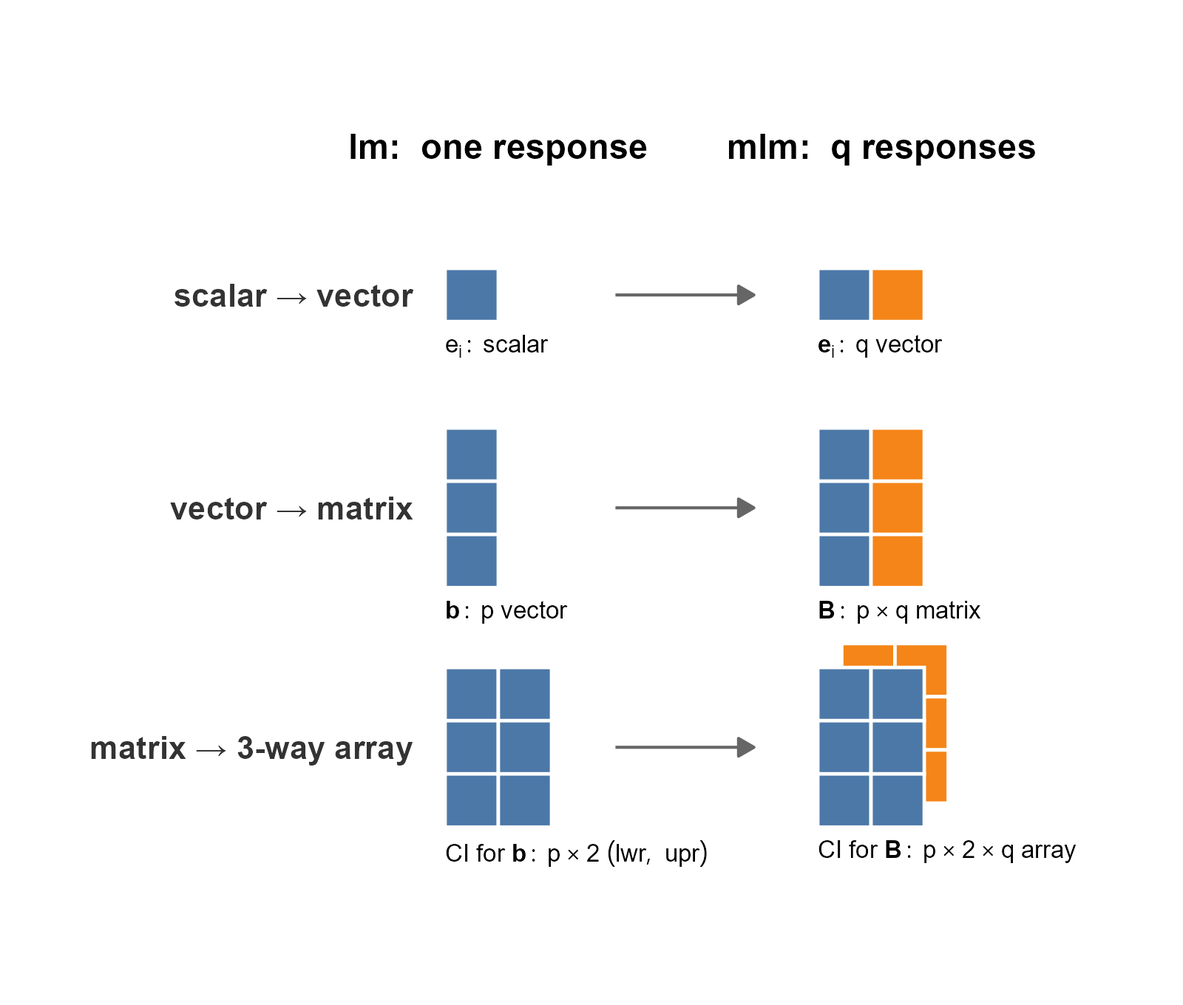
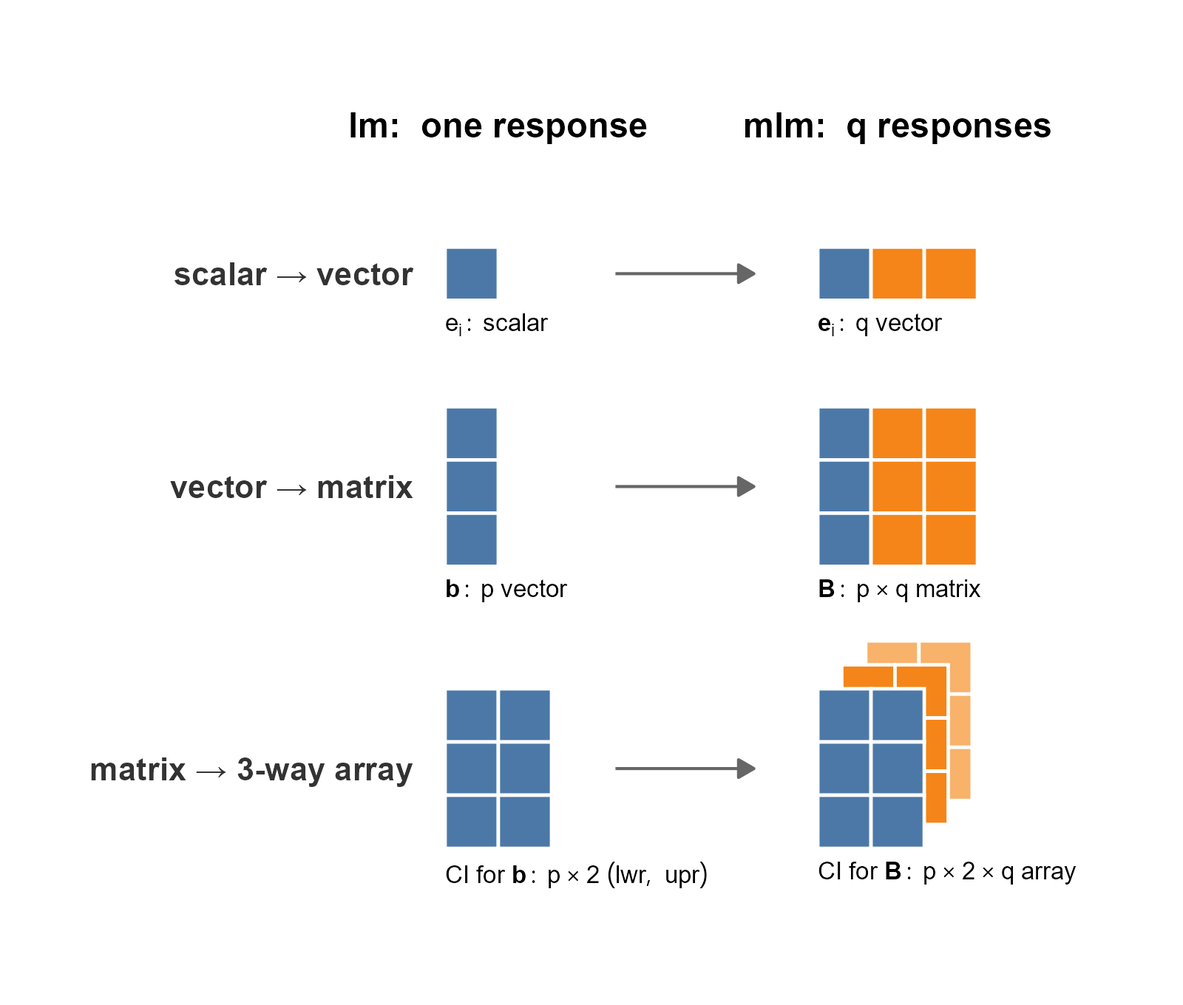
MLM-extensions draft: polishing items 1-5 and 16
- Notation: residual matrix U-hat; E = U'U is always the error SSP matrix
- Ladder bullets: residual e_i -> vector; sigma^2 -> Sigma and se.fit jump two rungs
- New 'Other gaps' subsection (plot.mlm, AV plots via pvPlot, vif, effects, shrinkage);
  cite Fox (2003) for effect displays
- Replace dim(X) + 1 phrasing; rewrite the genridge sentence
- Kronecker product named in the intro and as a Conclusion lesson, with a footnote on
  factorial model matrices
- Ladder figure redrawn with q = 3 responses
- notes.md: Additions section (MF), completed items ticked

diff --git a/blog/drafts/MLM-extensions/index.html b/blog/drafts/MLM-extensions/index.html
@@ -7,7 +7,7 @@
 <meta name="viewport" content="width=device-width, initial-scale=1.0, user-scalable=yes">
 
 <meta name="author" content="Michael Friendly">
-<meta name="dcterms.date" content="2026-11-20">
+<meta name="dcterms.date" content="2026-11-21">
 <meta name="description" content="R fits a multivariate linear model with the same lm() call as a univariate one, but many of the methods built around lm objects stop working, or quietly do something univariate. The underlying issue is that every object gains a dimension. This post describes what I’ve learned extending lm methods to mlm in the heplots, candisc, mvinfluence and genridge packages.">
 
 <title>On Extending lm() Methods to "mlm"</title>
@@ -162,6 +162,7 @@ window.Quarto = {
   <li><a href="#whats-still-missing" id="toc-whats-still-missing" class="nav-link" data-scroll-target="#whats-still-missing">What’s still missing</a>
   <ul class="collapse">
   <li><a href="#not-done-yet-predict.mlm-with-standard-errors" id="toc-not-done-yet-predict.mlm-with-standard-errors" class="nav-link" data-scroll-target="#not-done-yet-predict.mlm-with-standard-errors">Not done yet: <code>predict.mlm()</code> with standard errors</a></li>
+  <li><a href="#other-gaps" id="toc-other-gaps" class="nav-link" data-scroll-target="#other-gaps">Other gaps</a></li>
   </ul></li>
   <li><a href="#conclusion-what-i-learned" id="toc-conclusion-what-i-learned" class="nav-link" data-scroll-target="#conclusion-what-i-learned">Conclusion: what I learned</a></li>
   <li><a href="#references" id="toc-references" class="nav-link" data-scroll-target="#references">References</a></li>
@@ -201,7 +202,7 @@ window.Quarto = {
     <div>
     <div class="quarto-title-meta-heading">Published</div>
     <div class="quarto-title-meta-contents">
-      <p class="date">November 20, 2026</p>
+      <p class="date">November 21, 2026</p>
     </div>
   </div>
   
@@ -289,17 +290,10 @@ Hornet 4 Drive 4.724822e-05 0.0051368087</code></pre>
 <p>In short, the multivariate linear model is <strong>easy to fit</strong> and <strong>hard to see</strong>.</p>
 <ul>
 <li>The model syntax in <code>lm()</code> is trivial &amp; expressive: <code>y</code> becomes <code>cbind(y1, y2, ...)</code>. You only need to understand the idea of <strong>“binding”</strong> rows or columns into a matrix. But the <code>cbind</code> base family also works for a sequence of vectors, matrices and dataframes.</li>
-<li>The matrix algebra extension is elegant &amp; beautiful: <span class="math inline">\(\mathbf{y}_{n \times 1} \rightarrow \mathbf{Y}_{n \times q}\)</span> — it largely just works! The residual variance <span class="math inline">\(\sigma^2\)</span> becomes a covariance matrix <span class="math inline">\(\boldsymbol{\Sigma}\)</span>. The <span class="math inline">\(F\)</span> ratio of hypothesis to error sums of squares becomes the eigenvalues of <span class="math inline">\(\mathbf{H}\mathbf{E}^{-1}\)</span>, which give Wilks’ <span class="math inline">\(\Lambda\)</span>, the Pillai trace, Hotelling-Lawley and their friend Roy. And <span class="math inline">\(\textrm{Var}(\widehat{\mathbf{b}}) = \sigma^2 (\mathbf{X}^\top \mathbf{X})^{-1}\)</span> becomes <span class="math inline">\(\textrm{Var}(\textrm{vec}\, \widehat{\mathbf{B}}) = \boldsymbol{\Sigma} \otimes (\mathbf{X}^\top \mathbf{X})^{-1}\)</span>. Once there’s a covariance matrix, you can even ask whether it’s the same in every group: Box’s <span class="math inline">\(\mathcal{M}\)</span> test <span class="citation" data-cites="Box:1949">(<a href="#ref-Box:1949" role="doc-biblioref">Box 1949</a>)</span>.</li>
+<li>The matrix algebra extension is elegant &amp; beautiful: <span class="math inline">\(\mathbf{y}_{n \times 1} \rightarrow \mathbf{Y}_{n \times q}\)</span> — it largely just works! The residual variance <span class="math inline">\(\sigma^2\)</span> becomes a covariance matrix <span class="math inline">\(\boldsymbol{\Sigma}\)</span>. The <span class="math inline">\(F\)</span> ratio of hypothesis to error sums of squares becomes the eigenvalues of <span class="math inline">\(\mathbf{H}\mathbf{E}^{-1}\)</span>, which give Wilks’ <span class="math inline">\(\Lambda\)</span>, the Pillai trace, Hotelling-Lawley and their friend Roy. And <span class="math inline">\(\textrm{Var}(\widehat{\mathbf{b}}) = \sigma^2 (\mathbf{X}^\top \mathbf{X})^{-1}\)</span> becomes <span class="math inline">\(\textrm{Var}(\textrm{vec}\, \widehat{\mathbf{B}}) = \boldsymbol{\Sigma} \otimes (\mathbf{X}^\top \mathbf{X})^{-1}\)</span>, where <span class="math inline">\(\otimes\)</span> is the <a href="https://en.wikipedia.org/wiki/Kronecker_product">Kronecker product</a>. Once there’s a covariance matrix, you can even ask whether it’s the same in every group: Box’s <span class="math inline">\(\mathcal{M}\)</span> test <span class="citation" data-cites="Box:1949">(<a href="#ref-Box:1949" role="doc-biblioref">Box 1949</a>)</span>.</li>
 </ul>
-<!--
-LATER (MF, 2026-11-20): the Kronecker product's other role in lm(). For a crossed
-factorial design, the model matrix is built from per-factor pieces:
-(1, X_A) ⊗ (1, X_B) ⊗ (1, X_C) gives the columns of y ~ A*B*C (the main-effects model
-y ~ A + B + C is a subset of them). Strictly, that's one row per cell, in lexicographic
-order; replicates add ⊗ 1_n, and unbalanced data select rows. Where: possibly "One more
-dimension" (another way the algebra stays tidy) or a footnote near the genridge
-Σ ⊗ V_λ result.
--->
+<!-- MF's LATER note on Kronecker products in factorial model matrices is now a footnote
+in the Conclusion ("The Kronecker product keeps the two dimensions apart"). -->
 <p><a href="#fig-techniques" class="quarto-xref">Figure&nbsp;1</a> puts this in a wider frame. It classifies the familiar linear-model methods by the number and kind of predictors and responses. For one response (<span class="math inline">\(q = 1\)</span>), we have a rich toolkit of graphical methods: added-variable plots, influence plots, effect plots and the rest. For several quantitative responses (<span class="math inline">\(q &gt; 1\)</span>), the methods are just as well developed on the statistical side (multivariate regression, MANOVA, canonical correlation), but the graphics have been thin. Mostly, the results arrive as tables of multivariate test statistics.</p>
 <div id="fig-techniques" class="quarto-float quarto-figure quarto-figure-center anchored" alt="A table of linear-model techniques. Rows: predictors, quantitative or discrete, with p = 1 or p > 1. Columns: responses, quantitative or discrete, with q = 1 or q > 1. For quantitative responses, simple and multiple regression, t-test and ANOVA (q = 1) generalize to multivariate regression, canonical and partial correlation, Hotelling T-squared and MANOVA (q > 1). For discrete responses, logistic regression, chi-square, discriminant analysis, logit and loglinear models.">
 <figure class="quarto-float quarto-float-fig figure">
@@ -329,25 +323,25 @@ Could be generated live with tryCatch so it stays true as packages change.
 <p>It calls to mind the cognitive problems “A. Square” encountered in Edwin Abbott’s <em>Flatland</em> <span class="citation" data-cites="Abbott:1884">(<a href="#ref-Abbott:1884" role="doc-biblioref">Abbott 1884</a>)</span>, when a Sphere entered the story and taught him how to think in one more dimension. I’ve told that story in my <a href="https://friendly.github.io/Vis-MLM-book/"><em>Visualizing Multivariate Data and Models in R</em></a> book <span class="citation" data-cites="Friendly:2024:VisMLM">(<a href="#ref-Friendly:2024:VisMLM" role="doc-biblioref">Friendly 2024</a>)</span>.</p>
 <p>In R, when the response goes from a vector <strong>y</strong> to a matrix <strong>Y</strong>, every object the model produces <strong>gains a dimension</strong>:</p>
 <ul>
-<li>a <strong>scalar becomes a vector, or a matrix</strong>. The residual variance <span class="math inline">\(\sigma^2\)</span> becomes a <span class="math inline">\(q \times q\)</span> covariance matrix <span class="math inline">\(\boldsymbol{\Sigma}\)</span>.</li>
-<li>a <strong>vector becomes a matrix</strong>. The coefficients <span class="math inline">\(\mathbf{b}\)</span> become a <span class="math inline">\(p \times q\)</span> matrix <span class="math inline">\(\mathbf{B}\)</span>, and the residuals become an <span class="math inline">\(n \times q\)</span> matrix.</li>
-<li>a <strong>matrix becomes a 3-way array</strong>, or a list of matrices. A table of confidence intervals for the coefficients (<span class="math inline">\(p \times 2\)</span>) becomes <span class="math inline">\(p \times 2 \times q\)</span>. The standard error of each fitted value becomes a <span class="math inline">\(q \times q\)</span> matrix, one for every case.</li>
+<li>a <strong>scalar becomes a vector</strong>. The residual <span class="math inline">\(e_i\)</span> for case <span class="math inline">\(i\)</span> becomes a vector <span class="math inline">\(\mathbf{e}_i\)</span> of <span class="math inline">\(q\)</span> residuals, one for each response. Some scalars jump two rungs at once: the residual variance <span class="math inline">\(\sigma^2\)</span> becomes a <span class="math inline">\(q \times q\)</span> covariance matrix <span class="math inline">\(\boldsymbol{\Sigma}\)</span>, because along with <span class="math inline">\(q\)</span> variances it picks up the covariances between every pair of responses.</li>
+<li>a <strong>vector becomes a matrix</strong>. The coefficients <span class="math inline">\(\mathbf{b}\)</span> become a <span class="math inline">\(p \times q\)</span> matrix <span class="math inline">\(\mathbf{B}\)</span>, and the residuals become an <span class="math inline">\(n \times q\)</span> matrix <span class="math inline">\(\widehat{\mathbf{U}}\)</span>.</li>
+<li>a <strong>matrix becomes a 3-way array</strong>, or a list of matrices. A table of confidence intervals for the coefficients (<span class="math inline">\(p \times 2\)</span>) becomes <span class="math inline">\(p \times 2 \times q\)</span>. The standard errors of the fitted values also jump two rungs: a vector with one number per case becomes an <span class="math inline">\(n \times q \times q\)</span> array, a <span class="math inline">\(q \times q\)</span> matrix for every case.</li>
 </ul>
-<p><a href="#fig-dimension-ladder" class="quarto-xref">Figure&nbsp;2</a> shows this ladder for a model with <span class="math inline">\(p = 3\)</span> coefficients and <span class="math inline">\(q = 2\)</span> responses.</p>
-<div id="fig-dimension-ladder" class="quarto-float quarto-figure quarto-figure-center anchored" alt="A three-row diagram. Left column, lm with one response: a single cell for the residual e_i, a column of three cells for the coefficients b, and a 3 by 2 grid for their confidence intervals. Right column, mlm with q responses: each object gains orange cells along a new dimension, becoming a 1 by 2 vector, a 3 by 2 matrix B, and a 3 by 2 by 2 array drawn as two stacked layers.">
+<p><a href="#fig-dimension-ladder" class="quarto-xref">Figure&nbsp;2</a> shows this ladder for a model with <span class="math inline">\(p = 3\)</span> coefficients and <span class="math inline">\(q = 3\)</span> responses.</p>
+<div id="fig-dimension-ladder" class="quarto-float quarto-figure quarto-figure-center anchored" alt="A three-row diagram. Left column, lm with one response: a single cell for the residual e_i, a column of three cells for the coefficients b, and a 3 by 2 grid for their confidence intervals. Right column, mlm with q responses: each object gains orange cells along a new dimension, becoming a 1 by 3 vector, a 3 by 3 matrix B, and a 3 by 2 by 3 array drawn as three stacked layers, the two behind the blue one in orange.">
 <figure class="quarto-float quarto-float-fig figure">
 <div aria-describedby="fig-dimension-ladder-caption-0ceaefa1-69ba-4598-a22c-09a6ac19f8ca">
-<img src="figures/dimension-ladder.png" class="img-fluid figure-img" style="width:75.0%" alt="A three-row diagram. Left column, lm with one response: a single cell for the residual e_i, a column of three cells for the coefficients b, and a 3 by 2 grid for their confidence intervals. Right column, mlm with q responses: each object gains orange cells along a new dimension, becoming a 1 by 2 vector, a 3 by 2 matrix B, and a 3 by 2 by 2 array drawn as two stacked layers.">
+<img src="figures/dimension-ladder.png" class="img-fluid figure-img" style="width:75.0%" alt="A three-row diagram. Left column, lm with one response: a single cell for the residual e_i, a column of three cells for the coefficients b, and a 3 by 2 grid for their confidence intervals. Right column, mlm with q responses: each object gains orange cells along a new dimension, becoming a 1 by 3 vector, a 3 by 3 matrix B, and a 3 by 2 by 3 array drawn as three stacked layers, the two behind the blue one in orange.">
 </div>
 <figcaption class="quarto-float-caption-bottom quarto-float-caption quarto-float-fig" id="fig-dimension-ladder-caption-0ceaefa1-69ba-4598-a22c-09a6ac19f8ca">
-Figure&nbsp;2: Going from <code>lm</code> to <code>mlm</code>, every object gains a dimension. Blue cells are what a univariate model gives you; orange cells are added by the second response. The residual for a case becomes a vector, the coefficient vector becomes a matrix, and the table of confidence intervals becomes a 3-way array.
+Figure&nbsp;2: Going from <code>lm</code> to <code>mlm</code>, every object gains a dimension. Blue cells are what a univariate model gives you; orange cells are added by the other two responses. The residual for a case becomes a vector, the coefficient vector becomes a matrix, and the table of confidence intervals becomes a 3-way array.
 </figcaption>
 </figure>
 </div>
 <!-- Drawn by R/dimension-ladder.R (run from this folder). Possible additions: a fourth
 rung for sigma^2 -> Sigma (scalar -> matrix, skipping a rung), or se.fit. -->
 <p>That extra dimension shows up first in what a function <em>returns</em>, and then in every method that has to consume it: <code>print()</code>, <code>summary()</code>, <code>confint()</code>, <code>predict()</code>, and of course <code>plot()</code>.</p>
-<p>Code written for one shape is handed the next one up. But this has to do <em>something</em> with the new <code>dim(X) + 1</code> object. The challenge has always been: How to do something more <strong>useful</strong> in a multivariate context.</p>
+<p>Code written for one shape is handed the next one up, and it has to do <em>something</em> with it. The challenge has always been to make that something <strong>useful</strong> in a multivariate context.</p>
 <p>Base R takes several different approaches. Sometimes it simply returns the bigger object: <code>coef(fit)</code> is the <span class="math inline">\(3 \times 2\)</span> matrix you’d expect. Sometimes it <strong>flattens</strong> the extra dimension away. <code>confint()</code> strings the responses and coefficients together into one long list of intervals:</p>
 <div class="cell">
 <div class="code-copy-outer-scaffold"><div class="sourceCode cell-code" id="cb11"><pre class="sourceCode r code-with-copy"><code class="sourceCode r"><span id="cb11-1"><a href="#cb11-1" aria-hidden="true" tabindex="-1"></a><span class="fu">confint</span>(fit)</span></code></pre></div><button title="Copy to Clipboard" class="code-copy-button"><i class="bi"></i></button></div>
@@ -420,7 +414,7 @@ Questions for MF are marked Q:.
 </section>
 <section id="seeing-the-tests-he-plots" class="level2">
 <h2 class="anchored" data-anchor-id="seeing-the-tests-he-plots">Seeing the tests: HE plots</h2>
-<p>In a univariate linear model, every <span class="math inline">\(F\)</span> test compares two sums of squares: <span class="math inline">\(SS_H\)</span> for the hypothesis and <span class="math inline">\(SS_E\)</span> for error. In the multivariate model, each of these becomes a <span class="math inline">\(q \times q\)</span> matrix of sums of squares and products: <span class="math inline">\(\mathbf{H}\)</span> for each term in the model, and one <span class="math inline">\(\mathbf{E}\)</span> for the residuals. All four multivariate test statistics are functions of the eigenvalues of <span class="math inline">\(\mathbf{H}\mathbf{E}^{-1}\)</span>, the matrix analog of <span class="math inline">\(SS_H / SS_E\)</span>.</p>
+<p>In a univariate linear model, every <span class="math inline">\(F\)</span> test compares two sums of squares: <span class="math inline">\(SS_H\)</span> for the hypothesis and <span class="math inline">\(SS_E\)</span> for error. In the multivariate model, each of these becomes a <span class="math inline">\(q \times q\)</span> matrix of sums of squares and products: <span class="math inline">\(\mathbf{H}\)</span> for each term in the model, and one <span class="math inline">\(\mathbf{E}\)</span> for error. <span class="math inline">\(\mathbf{E} = \widehat{\mathbf{U}}^\top \widehat{\mathbf{U}}\)</span> is the sums of squares and products of the residuals, <span class="math inline">\(\widehat{\mathbf{U}} = \mathbf{Y} - \mathbf{X}\widehat{\mathbf{B}}\)</span>. All four multivariate test statistics are functions of the eigenvalues of <span class="math inline">\(\mathbf{H}\mathbf{E}^{-1}\)</span>, the matrix analog of <span class="math inline">\(SS_H / SS_E\)</span>.</p>
 <p>That’s the matrix that plays the role of the scalar. The way to see it is the <strong>HE plot</strong> <span class="citation" data-cites="Friendly:07:manova FoxFriendlyMonette:09:compstat">(<a href="#ref-Friendly:07:manova" role="doc-biblioref">Friendly 2007</a>; <a href="#ref-FoxFriendlyMonette:09:compstat" role="doc-biblioref">Fox et al. 2009</a>)</span>: draw <span class="math inline">\(\mathbf{H}\)</span> and <span class="math inline">\(\mathbf{E}\)</span> as ellipses in the space of two responses. The <span class="math inline">\(\mathbf{E}\)</span> ellipse shows the size and shape of the residual variation. The <span class="math inline">\(\mathbf{H}\)</span> ellipse for a term shows the variation of the fitted values due to that term. With the default “evidence” scaling, <span class="math inline">\(\mathbf{H}\)</span> protrudes outside <span class="math inline">\(\mathbf{E}\)</span> somewhere in the full response space if and only if the term is significant by Roy’s test. (In a two-dimensional view, the rule works only one way: outside means significant, but inside doesn’t mean “not significant”.)</p>
 <p>Here’s an example, from Rohwer’s study of how well paired-associate (PA) learning tasks predict three aptitude and achievement tests in kindergarten children of high and low socioeconomic status (SES). The model is a multivariate analysis of covariance: SES is a factor, and the five PA tasks are covariates.</p>
 <div class="cell">
@@ -563,7 +557,7 @@ Figure&nbsp;4: HE plot of the Pottery data in canonical space. In this view, the
 0.052235697 0.029590855 0.023351805 0.005212763 </code></pre>
 </div>
 </div>
-<p>The math came from <span class="citation" data-cites="BarrettLing:92">Barrett and Ling (<a href="#ref-BarrettLing:92" role="doc-biblioref">1992</a>)</span>. Their generalized Cook’s distance strings the coefficient matrix out into one long vector, <span class="math inline">\(\textrm{vec}(\mathbf{B})\)</span>, and measures how far it moves when a case is deleted, in the metric of its covariance matrix. That metric is <span class="math inline">\(\mathbf{S}^{-1} \otimes \mathbf{X}^\top \mathbf{X}\)</span>: the Kronecker product again. As in the univariate case, <span class="math inline">\(D_i\)</span> is proportional to the product of a leverage component and a residual component. Leverage depends only on <span class="math inline">\(\mathbf{X}\)</span>, so it doesn’t change. The residual is now a vector, so its size becomes <span class="math inline">\(q_{ii} = \mathbf{e}_i^\top (\mathbf{E}^\top \mathbf{E})^{-1} \mathbf{e}_i\)</span>, a hat value for the residuals: one more scalar that has become a quadratic form.</p>
+<p>The math came from <span class="citation" data-cites="BarrettLing:92">Barrett and Ling (<a href="#ref-BarrettLing:92" role="doc-biblioref">1992</a>)</span>. Their generalized Cook’s distance strings the coefficient matrix out into one long vector, <span class="math inline">\(\textrm{vec}(\mathbf{B})\)</span>, and measures how far it moves when a case is deleted, in the metric of its covariance matrix. That metric is <span class="math inline">\(\widehat{\boldsymbol{\Sigma}}^{-1} \otimes \mathbf{X}^\top \mathbf{X}\)</span>: the Kronecker product again. As in the univariate case, <span class="math inline">\(D_i\)</span> is proportional to the product of a leverage component and a residual component. Leverage depends only on <span class="math inline">\(\mathbf{X}\)</span>, so it doesn’t change. The residual is now a vector, <span class="math inline">\(\mathbf{e}_i^\top\)</span>, the <span class="math inline">\(i\)</span>th row of <span class="math inline">\(\widehat{\mathbf{U}}\)</span>, so its size becomes <span class="math inline">\(q_{ii} = \mathbf{e}_i^\top \mathbf{E}^{-1} \mathbf{e}_i\)</span>, a hat value for the residuals: one more scalar that has become a quadratic form, and in the same <span class="math inline">\(\mathbf{E}\)</span> as the HE plot.</p>
 <p>Is the multivariate version worth the trouble? <span class="citation" data-cites="Barrett:2003">Barrett (<a href="#ref-Barrett:2003" role="doc-biblioref">2003</a>)</span> gave a toy example, with one predictor and two nearly identical responses, that makes the case:</p>
 <div class="cell">
 <details open="" class="code-fold">
@@ -709,7 +703,7 @@ Figure&nbsp;6: Robust MANOVA for the Pottery data. Left: final case weights from
 <h2 class="anchored" data-anchor-id="now-multivariate-ridge-regression-in-genridge">Now: multivariate ridge regression in genridge</h2>
 <!-- MF: genridge 0.8.1 was submitted to CRAN 2026-11-20. Update the wording once it's accepted. -->
 <p>The newest member of the family is in genridge, my package for visualizing ridge regression <span class="citation" data-cites="Friendly:genridge:2013">(<a href="#ref-Friendly:genridge:2013" role="doc-biblioref">Friendly 2013</a>)</span>. In version 0.8.1, <code>ridge()</code> accepts a matrix response, either in a formula or as an existing <code>mlm</code> fit, and returns an object of class <code>"mlmridge"</code>. The implementation was adapted from <code>lm_multiv_ridge()</code> in the <strong>VARshrink</strong> package. It’s marked experimental, and I’d welcome comments.</p>
-<p>The essential idea was how to adapt the graphical methods I had developed for a single <span class="math inline">\(\mathbf{y}\)</span>, when there are possibly many predictors in <span class="math inline">\(\mathbf{X}\)</span>, whose effects on shrinkage are to be considered jointly, to the <code>dim() + 1</code> case of <span class="math inline">\(\mathbf{y} \rightarrow \mathbf{Y}\)</span> case with <code>q &gt; 1</code> responses.</p>
+<p>The question was how to carry the graphical methods I had developed for a single <span class="math inline">\(\mathbf{y}\)</span>, where the effects of many predictors on shrinkage are seen jointly, one dimension up, to <span class="math inline">\(\mathbf{Y}\)</span> with <span class="math inline">\(q &gt; 1\)</span> responses.</p>
 <p>The <code>schooldata</code> data in heplots make a good test case. For 70 schools, three measures of student achievement (<code>reading</code>, <code>mathematics</code> and <code>selfesteem</code>) are predicted from five measures of the schools’ resources, three of which are nearly the same variable. The collinearity is severe enough that <code>visit</code>, strongly and positively correlated with reading and mathematics, gets negative OLS coefficients for both.</p>
 <div class="cell">
 <details open="" class="code-fold">
@@ -883,14 +877,20 @@ Figure&nbsp;9: 95% confidence ellipses (blue) and prediction ellipses (red, dash
 <li><strong>Printing.</strong> Nobody wants to read <span class="math inline">\(n\)</span> covariance matrices.</li>
 <li><strong>Plotting.</strong> Probably as above, which puts it back in heplots territory.</li>
 </ul>
+</section>
+<section id="other-gaps" class="level3">
+<h3 class="anchored" data-anchor-id="other-gaps">Other gaps</h3>
+<p><code>predict()</code> isn’t the only one. A few others, each a case of the same problem:</p>
+<ul>
+<li><strong>An actual <code>plot.mlm()</code>.</strong> R’s error message from the introduction still stands. What should the default diagnostic plots for an <code>mlm</code> be? A <span class="math inline">\(\chi^2\)</span> QQ plot of the residual Mahalanobis distances (<code>cqplot()</code>), an influence plot and an HE plot would be a start.</li>
+<li><strong>Added-variable plots.</strong> <code>car::avPlots()</code> fails on an <code>mlm</code>. For a predictor <span class="math inline">\(x_k\)</span>, the multivariate version would plot the residuals of <em>all</em> the responses, adjusted for the other predictors, against the residual of <span class="math inline">\(x_k\)</span>: <span class="math inline">\(q\)</span> panels, or one panel with a data ellipse for each pair of responses. <code>heplots::pvPlot()</code> is one step in that direction. It works on a data frame, not a model, and shows the conditional relation of <em>any</em> two variables, <span class="math inline">\(x\)</span>’s or <span class="math inline">\(y\)</span>’s, given all the others, as a scatterplot of their partial residuals with a data ellipse. Plotting <span class="math inline">\(y_j\)</span> against <span class="math inline">\(x_k\)</span>, with the other predictors partialled out, gives the added-variable plot for one response. Plotting two responses against each other, with all the predictors partialled out, shows their residual correlation, the shape of <span class="math inline">\(\mathbf{E}\)</span>.</li>
+<li><strong><code>car::vif()</code>.</strong> This one should be easy. VIFs depend only on <span class="math inline">\(\mathbf{X}\)</span>, so they’re the same for every response; <code>vif()</code> stops only because it looks for coefficient names in a vector, not a matrix.</li>
+<li><strong>Effect displays.</strong> The <a href="https://CRAN.R-project.org/package=effects">effects</a> package plots fitted values for each term, with confidence bands <span class="citation" data-cites="Fox:03:effects">(<a href="#ref-Fox:03:effects" role="doc-biblioref">Fox 2003</a>)</span>. For an <code>mlm</code>, each fitted value is a <span class="math inline">\(q\)</span>-vector and each band becomes a set of confidence ellipses: the <code>predict()</code> problem again, one term at a time.</li>
+<li><strong>Shrinkage that borrows strength across responses.</strong> genridge uses one ridge constant for all responses, which leaves each column of <span class="math inline">\(\widehat{\mathbf{B}}\)</span> a univariate ridge. Genuinely multivariate shrinkage, as in <span class="citation" data-cites="Brown-Zidek-1980">Brown and Zidek (<a href="#ref-Brown-Zidek-1980" role="doc-biblioref">1980</a>)</span> or the “curds and whey” method of <span class="citation" data-cites="BreimanFriedman:1997">Breiman and Friedman (<a href="#ref-BreimanFriedman:1997" role="doc-biblioref">1997</a>)</span>, uses the correlations among the responses, and would need new displays of its own.</li>
+</ul>
 <!--
-- plot.mlm(): should someone write one? What would it show?
-- predict.mlm(): draft in heplots dev/pred.mlm.R (pred.mlm0, from Helwig's notes).
-- car::avPlots(), car::vif() for mlm.
-- Real multivariate shrinkage (Brown & Zidek 1980; curds and whey, Breiman & Friedman 1997).
-- effects for mlm.
-- Possibly a short "lessons for package developers" list here (see notes.md, Design lessons),
-  or as a callout box.
+Possibly a short "lessons for package developers" list here (see notes.md, Design lessons),
+or as a callout box.
 -->
 </section>
 </section>
@@ -903,6 +903,7 @@ Figure&nbsp;9: 95% confidence ellipses (blue) and prediction ellipses (red, dash
 <li><p><strong>The statistics were mostly the easy part.</strong> The theory of the multivariate linear model was settled long ago, and much of the computation I needed was already there: <code>car::Anova()</code> for the <span class="math inline">\(\mathbf{H}\)</span> and <span class="math inline">\(\mathbf{E}\)</span> matrices, Barrett &amp; Ling’s influence measures, the Kronecker form of <span class="math inline">\(\textrm{Var}(\textrm{vec}\,\widehat{\mathbf{B}})\)</span>. The real work was in the software: what a function returns when every object gains a dimension, how it prints, and how the methods downstream should consume it.</p></li>
 <li><p><strong>Find the matrix that plays the role of the scalar, then find a way to see it.</strong> A variance becomes a covariance matrix, a squared residual a Mahalanobis distance, an <span class="math inline">\(F\)</span> ratio the eigenvalues of <span class="math inline">\(\mathbf{H}\mathbf{E}^{-1}\)</span>, a confidence interval an ellipse. Once you’ve named the matrix, the picture is very often an ellipse. That’s what makes these methods <em>visual</em>, and not just multivariate.</p></li>
 <li><p><strong>Not everything needs a new display.</strong> Leverage depends only on <span class="math inline">\(\mathbf{X}\)</span>, and so do the ridge shrinkage factors and VIFs. Knowing what <em>doesn’t</em> change is as useful as knowing what does, and it keeps the extension honest.</p></li>
+<li><p><strong>The Kronecker product keeps the two dimensions apart.</strong> It turned up again and again: <span class="math inline">\(\boldsymbol{\Sigma} \otimes (\mathbf{X}^\top \mathbf{X})^{-1}\)</span> for the coefficients in the introduction, the metric <span class="math inline">\(\widehat{\boldsymbol{\Sigma}}^{-1} \otimes \mathbf{X}^\top \mathbf{X}\)</span> for Cook’s distance, <span class="math inline">\(\boldsymbol{\Sigma} \otimes \mathbf{V}_\lambda\)</span> for ridge, and <span class="math inline">\(h_0 \widehat{\boldsymbol{\Sigma}}\)</span>, one slice of it, for a predicted value. Each time, one factor belongs to the responses and the other to the predictors. That’s why leverage and VIFs don’t change when <span class="math inline">\(\mathbf{y}\)</span> becomes <span class="math inline">\(\mathbf{Y}\)</span>, and why the ridge and prediction ellipses all have the shape of <span class="math inline">\(\boldsymbol{\Sigma}\)</span>: the extra dimension enters through one factor and leaves the other alone.<a href="#fn4" class="footnote-ref" id="fnref4" role="doc-noteref"><sup>4</sup></a></p></li>
 <li><p><strong>Inheritance is a promise.</strong> S3 dispatch makes it cheap to add an <code>mlm</code> method, and an <code>"mlm"</code> class that inherits from <code>"lm"</code> invites every <code>lm</code> method to try. Some refuse, which is fine. The ones to worry about are those that run and quietly give you <span class="math inline">\(q\)</span> univariate answers to a multivariate question.</p></li>
 </ul>
 <p>For statisticians, my hope is that this makes the multivariate linear model a little easier to <em>see</em>, not just to fit. For R developers, it’s an invitation. The gaps in the last section, <code>predict.mlm()</code> with standard errors, an actual <code>plot.mlm()</code>, added-variable plots and effect displays for multivariate models, are all Un-Vized Problems, with the statistics in hand and the software still to be written. I’d be glad to hear from anyone who wants to take one on.</p>
@@ -923,8 +924,17 @@ Barrett, Bruce E., and Robert F. Ling. 1992. <span>“General Classes of Influen
 <div id="ref-Box:1949" class="csl-entry" role="listitem">
 Box, G. E. P. 1949. <span>“A General Distribution Theory for a Class of Likelihood Criteria.”</span> <em>Biometrika</em> 36 (3-4): 317–46. <a href="https://doi.org/10.1093/biomet/36.3-4.317">https://doi.org/10.1093/biomet/36.3-4.317</a>.
 </div>
+<div id="ref-BreimanFriedman:1997" class="csl-entry" role="listitem">
+Breiman, Leo, and Jerome H. Friedman. 1997. <span>“Predicting Multivariate Responses in Multiple Linear Regression.”</span> <em>Journal of the Royal Statistical Society, Series B: Statistical Methodology</em> 59 (1): 3–54. <a href="https://doi.org/10.1111/1467-9868.00054">https://doi.org/10.1111/1467-9868.00054</a>.
+</div>
+<div id="ref-Brown-Zidek-1980" class="csl-entry" role="listitem">
+Brown, P. J., and J. V. Zidek. 1980. <span>“Adaptive Multivariate Ridge Regression.”</span> <em>The Annals of Statistics</em> 8 (1): 64–74. <a href="http://www.jstor.org/stable/2240743">http://www.jstor.org/stable/2240743</a>.
+</div>
 <div id="ref-FoxFriendlyMonette:09:compstat" class="csl-entry" role="listitem">
 Fox, J., M. Friendly, and G. Monette. 2009. <span>“Visualizing Hypothesis Tests in Multivariate Linear Models: The <em>Heplots</em> Package for <span>R</span>.”</span> <em>Computational Statistics</em> 24: 233–46. <a href="https://doi.org/10.1007/s00180-008-0120-1">https://doi.org/10.1007/s00180-008-0120-1</a>.
+</div>
+<div id="ref-Fox:03:effects" class="csl-entry" role="listitem">
+Fox, John. 2003. <span>“Effect Displays in <span>R</span> for Generalized Linear Models.”</span> <em>Journal of Statistical Software</em> 8 (15): 1–27. <a href="https://doi.org/10.18637/jss.v008.i15">https://doi.org/10.18637/jss.v008.i15</a>.
 </div>
 <div id="ref-FoxFriendlyWeisberg:13:rjournal" class="csl-entry" role="listitem">
 Fox, John, Michael Friendly, and Sanford Weisberg. 2013. <span>“Hypothesis Tests for Multivariate Linear Models Using the <em>Car</em> Package.”</span> <em>The R Journal</em> 5 (1): 39–52.
@@ -963,6 +973,7 @@ Tukey, John W. 1959. <span>“A Quick, Compact, Two Sample Test to <span class="
 <li id="fn1"><p>To paraphrase <span class="citation" data-cites="Tukey:59">Tukey (<a href="#ref-Tukey:59" role="doc-biblioref">1959</a>)</span>, the “practical power” of any statistical method is the product of its statistical power, times the probability that anyone can or will actually use it.<a href="#fnref1" class="footnote-back" role="doc-backlink">↩</a></p></li>
 <li id="fn2"><p>Of course, there are other, more modern views of the idea of a “scatterplot matrix” <span class="citation" data-cites="Hartigan:75b">(<a href="#ref-Hartigan:75b" role="doc-biblioref">Hartigan 1975</a>)</span> in Trellis graphics, … now <code>ggplot2</code> via <code>GGally</code> and other extensions ,,,<a href="#fnref2" class="footnote-back" role="doc-backlink">↩</a></p></li>
 <li id="fn3"><p>This leaves open the question of how this should be done: <code>for()</code> loops, <code>apply()</code> or <code>map()</code> functions, faceted displays, etc.<a href="#fnref3" class="footnote-back" role="doc-backlink">↩</a></p></li>
+<li id="fn4"><p>The Kronecker product does the same tidy bookkeeping on the predictor side. For a full factorial design with one observation per cell, in lexicographic order, the model matrix for <code>y ~ A * B * C</code> is <span class="math inline">\((\mathbf{1}, \mathbf{X}_A) \otimes (\mathbf{1}, \mathbf{X}_B) \otimes (\mathbf{1}, \mathbf{X}_C)\)</span>, up to the order of the columns, where each <span class="math inline">\(\mathbf{X}\)</span> holds the contrasts for one factor. Replicates add a factor <span class="math inline">\(\otimes \mathbf{1}_n\)</span>.<a href="#fnref4" class="footnote-back" role="doc-backlink">↩</a></p></li>
 </ol>
 </section></div></main>
 <!-- /main column -->

diff --git a/blog/drafts/MLM-extensions/notes.md b/blog/drafts/MLM-extensions/notes.md
@@ -311,29 +311,57 @@ citation keys resolve.
 
 **Notation (MF to decide)**
 
-1. **E for two things.** In mvinfluence, `qᵢᵢ = eᵢ′(E′E)⁻¹eᵢ` uses **E** for the residual matrix,
-   but everywhere else **E** is the error SSP matrix. Vis-MLM-book uses
-   `\providecommand{\Epsilon}{\boldsymbol{\Large\varepsilon}}` for the residual matrix. Options:
-   adopt `\Epsilon` (define it in a hidden `$$ $$` macro block at the top), or write
-   `eᵢ′ E⁻¹ eᵢ` with **E** = the SSP matrix, which avoids the residual matrix altogether.
-   Check other places a residual matrix appears (robmlm: "residual covariance matrix S").
+1. ✔ ~~**E for two things.**~~ *Done 2026-11-21.* Follows Friendly, Monette & Fox (2013,
+   eq. 14): residual matrix $\widehat{\mathbf{U}} = \mathbf{Y} - \mathbf{X}\widehat{\mathbf{B}}$,
+   and **E** = $\widehat{\mathbf{U}}^\top\widehat{\mathbf{U}}$ always means the error SSP matrix.
+   - Changes: "One more dimension" names the residual matrix $\widehat{\mathbf{U}}$; the HE
+     section defines **E** from it; mvinfluence now has $q_{ii} = \mathbf{e}_i^\top
+     \mathbf{E}^{-1} \mathbf{e}_i$, with $\mathbf{e}_i^\top$ the $i$th row of
+     $\widehat{\mathbf{U}}$; Cook's metric uses $\widehat{\boldsymbol{\Sigma}}^{-1}$ instead
+     of **S**, matching the introduction. robmlm keeps **S**, since it's a different (robust)
+     estimate.
+   - The Vis-MLM book uses `\Epsilon` for the residual matrix instead; the post follows the
+     STS paper it cites.
+   - **mvinfluence discrepancy found while checking (2026-11-21).** `mlm.influence()` computes
+     `Q` from *deleted* residuals, `EI <- (Y - X %*% BI)[I, ]` (line 139), so its `Q` equals
+     $q_{ii}/(1-h_{ii})^2$ (verified to 1e-14 on the mtcars fit), not Barrett & Ling's
+     $q_{ii}$ with ordinary residuals. `CookD` is unaffected: it is computed directly from
+     B − B₍ᵢ₎, and equals $(n-p)/p \cdot h/(1-h)^2 \cdot q_{ii}$ exactly. But `R = Q/(1-H)`
+     then equals $q_{ii}/(1-h)^3$, so the LR influence plot's residual axis, and the claim
+     that D ∝ L × R (the diagonal Cook's D contours), are off. Written up as
+     `mvinfluence/issues/Q-deleted-residuals.md`. **MF: not addressed in this post for now.**
 
 **Consistency**
 
-2. Conclusion says the "gaps in the last section" include `plot.mlm()`, AV plots and effect
+2. ✔ ~~Conclusion says the "gaps in the last section" include `plot.mlm()`, AV plots and effect
    displays, but "What's still missing" only has `predict.mlm()`; the others are in an HTML
    comment. Add a short "Other gaps" list (plot.mlm, `car::avPlots()`/`vif()`, effects,
-   multivariate shrinkage: Brown & Zidek 1980, Breiman & Friedman 1997, both in references.bib).
+   multivariate shrinkage: Brown & Zidek 1980, Breiman & Friedman 1997, both in references.bib).~~
+   *Done 2026-11-21:* "### Other gaps" added after the `predict.mlm()` subsection:
+   - `plot.mlm()`;
+   - AV plots, with `heplots::pvPlot()` as a step towards them;
+   - `car::vif()`;
+   - effect displays, citing `Fox:03:effects` (added to references.bib from graphics.bib; the
+     earlier `FriendlyKwan:02:effect` is "Effect Ordering for Data Displays", the wrong paper);
+   - multivariate shrinkage.
    
-3. Ladder bullets in "One more dimension": the first uses σ² → Σ, but the figure's first rung
-   is eᵢ → a q-vector. Use eᵢ, and mention σ² → Σ as the case that jumps two rungs.
+3. ✔ ~~Ladder bullets in "One more dimension": the first uses σ² → Σ, but the figure's first rung
+   is eᵢ → a q-vector. Use eᵢ, and mention σ² → Σ as the case that jumps two rungs.~~
+   *Done 2026-11-21.*
    
-4. "`dim(X) + 1`" ("One more dimension") and "`dim() + 1`" (genridge, in an awkward sentence
-   that also needs rewriting): **X** is the model matrix elsewhere; pick one phrase.
-5. The Kronecker product appears four times (intro, mvinfluence, genridge, predict).
-Name it
-   as a recurring motif, perhaps in the Conclusion; the LATER comment on factorial design
-   matrices could join it there.
+4. ✔ ~~"`dim(X) + 1`" ("One more dimension") and "`dim() + 1`" (genridge, in an awkward sentence
+   that also needs rewriting): **X** is the model matrix elsewhere; pick one phrase.~~
+   *Done 2026-11-21:* both replaced with plain words ("the next one up", "one dimension
+   up"); the genridge sentence rewritten.
+5. ✔ ~~The Kronecker product appears four times (intro, mvinfluence, genridge, predict).
+   Name it as a recurring motif, perhaps in the Conclusion; the LATER comment on factorial
+   design matrices could join it there.~~
+   *Done 2026-11-21:*
+   - the intro now names ⊗ as the Kronecker product, with a link;
+   - a new Conclusion bullet, "The Kronecker product keeps the two dimensions apart", ties the
+     four uses together;
+   - MF's LATER note on factorial model matrices became its footnote. Checked in R: the
+     `~ A*B*C` model matrix equals (1, X_A) ⊗ (1, X_B) ⊗ (1, X_C) up to column order.
    
 6. Hotelling radius: the post uses `F(q, n−p−q+1)`; the heplots draft (`dev/pred.mlm.R`) uses
    `qf(level, m, n-p-m)`. Reconcile the draft with the post.
@@ -343,6 +371,43 @@ Name it
    change"/"does change"/"design lesson"). A shared pattern (what gains a dimension → what
    was hard in the software → the display) would make the "same problem each time" argument
    easier to see.
+
+**Additions**
+
+[MF: I think this could be a major addition to the post, possibly title: Getting Dimensions Back, or, more directly, Reducing Dimensions. Or maybe it is too much for here, so should be a separate post]
+
+One thing not addressed here in the 'one more dimension' idea is how multivariate thinking
+and matrix notation can lead to reducing the dimensions of an R object or of making a complex
+statistical test simpler, by considering what is important, aided by geometry.
+
+- How "big" is $\mathbf{y}$, or $\mathbf{Y}$, or $\mathbf{X}$, or $\mathbf{H}$ relative to $\mathbf{E}$?
+  - This is the core of the ideas of variance ($\sigma^2$), covariance ($\Sigma^2$) and their sample friends,
+  s^2, S, H and E
+  
+  - Matrix algebra has some handy tools for this: Vector (||x||) and matrix (||X||) norm characterizes the size
+  of an object in a single number: its' "length" in some sense, most often in a least-squares, Euclidean. but also
+  accommodates other spaces: Manhattan (-> LASSO vs. ridge regression), ...
+  
+  - It is, of course also the central idea behind PCA, as a data dimension reduction method, and biplots
+  as a means to visualize your data in fewer dimensions, while seeing how the observations an variables
+  in "low-rank" space relate to your data.
+  
+  - In the MLM context, this was a problem that was solved by matrix algebra by different ways of calculating
+  a scalar measure of how big $\mathbf{H}$ is relative to $\mathbf{E}$. Wilks, Pillai, Hotelling-Lawley, Roy each
+  addressed this in different, but reasonable ways. But then, some statistical magic happened. Wills' Lambda ... were 
+  seen as measures with totally different distributions, but all could be converted to an F-statistic. 
+  Often the conversion was **exact**: p-values identical. When these could only be guarranteed asymptotically,
+  statisticians of the day provided conditions: s=1, 2-- exact, ...
+  
+  [MF: Table 3, in the ellipses paper gives the details of Wilks', ...: formula and geometric interpret of "mean".
+  fig 19 there shows the geometry of the tests.]
+  
+  - For HE plots this became a different challenge: how to visualize how big H vs. E --- the graphic design idea
+  involved just centering and scaling to put their data ellipsoids in the same visual frame, where they could be
+  compared for "size" to answer that question, but also show their orientation, "fatness" (variance), ...
+  For factors could show thier means, show contrasts, ... Scaling choices also gave an option for "significance scaling" ...
+  
+  [MF: Either put just a stubb for this in the current post, or leave this for another time...]
 
 **Unfinished or awkward text**
 
@@ -376,10 +441,14 @@ Name it
 
 **Figures**
 
-16. Ladder (`R/dimension-ladder.R`): crop ~15% empty space at the top; the back layer of the
+16. ✔ *Done 2026-11-21 (MF: cropping and the label offset don't matter).* Redrawn with q = 3:
+    two orange cells/columns/layers added at each rung; the array's back layers are lighter the
+    farther back they are, so they read as planes; the bottom row moved down to clear the
+    **B** label. Caption, alt text and lead-in sentence updated. Original note:
+    ~~Ladder (`R/dimension-ladder.R`): crop ~15% empty space at the top; the back layer of the
     3-way array shows only as an orange L-strip and reads like a ragged matrix (bigger offset,
     perspective, or a "qsec" layer label); "CI for **B**" label sits a few px above
-    "CI for **b**".
+    "CI for **b**".~~
 17. Rohwer HE plot: `ss` label is faint gray; `ns` label at the frame edge. Minor.
 18. Pottery canonical: "IsleThorns"/"AshleyRails" overlap, "Mg"/"Fe" overlap, "Caldicot" sits
     on the ellipse boundary. Try `label.pos`, `cex`, or wider limits.
